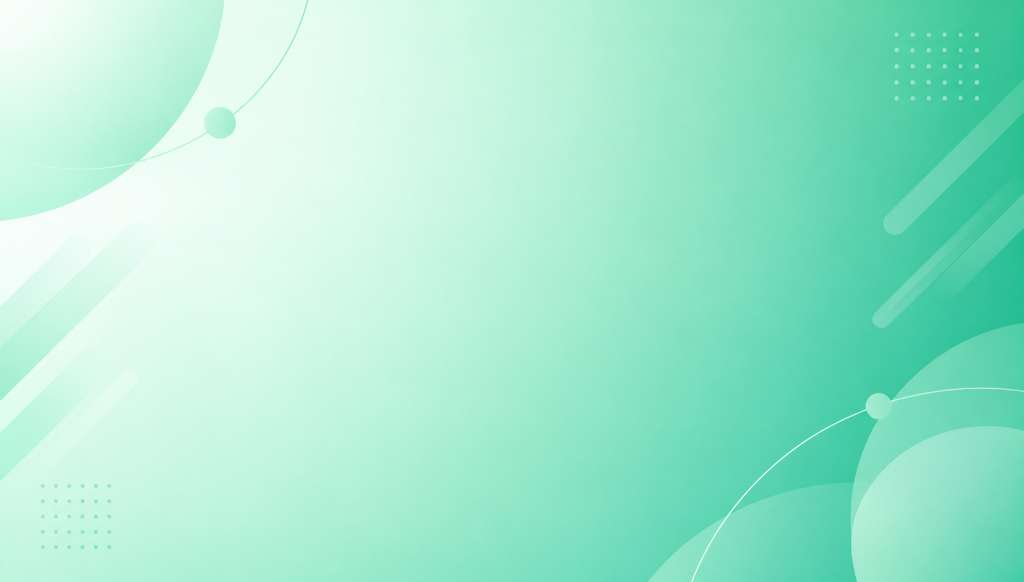
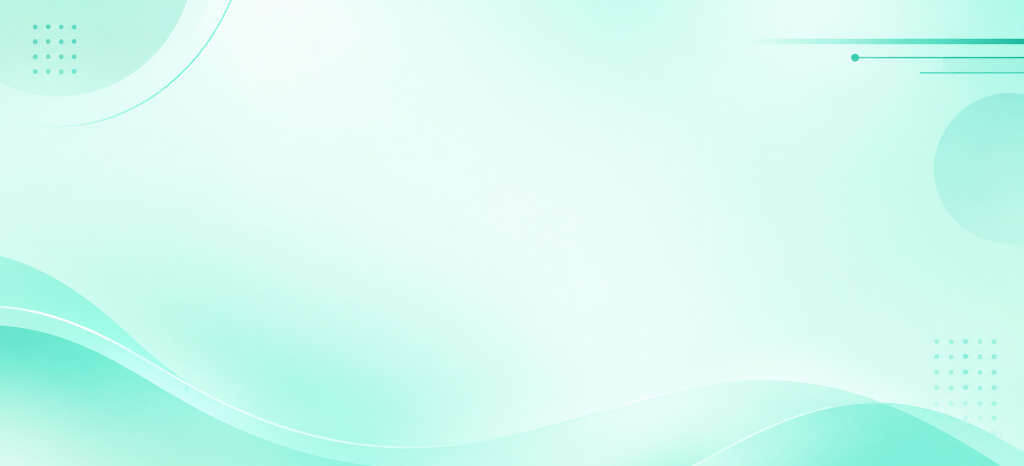
feat(frontend): update hero headline, new web background, and slider styling

diff --git a/Frontend/index.html b/Frontend/index.html
@@ -7,7 +7,7 @@
   <link rel="preconnect" href="https://fonts.googleapis.com">
   <link rel="preconnect" href="https://fonts.gstatic.com" crossorigin>
   <link href="https://fonts.googleapis.com/css2?family=Inter:wght@400;500;600;700;800&display=swap" rel="stylesheet">
-  <link rel="stylesheet" href="styles.css">
+  <link rel="stylesheet" href="styles.css?v=3">
 </head>
 <body>
 
@@ -61,7 +61,7 @@
             <span class="green-text">with Indian Standards</span>
           </h1>
           <p class="hero-subheading">
-            AI-assisted identification of applicable Indian Standards for your procurement specifications.
+            Find the exact Indian Standards for your purchase orders in seconds.
           </p>
 
           <div class="trust-badges-row">
@@ -157,7 +157,7 @@
           </button>
         </div>
 
-        <h2 class="card-title">What are you procuring?</h2>
+        <h2 class="card-title">What are you looking to buy?</h2>
         <p class="card-description">
           Describe your product, technical requirement, or procurement specification...
         </p>

diff --git a/Frontend/styles.css b/Frontend/styles.css
@@ -53,7 +53,7 @@
 body {
   font-family: 'Inter', -apple-system, BlinkMacSystemFont, "Segoe UI", Roboto, Helvetica, Arial, sans-serif;
   background-color: var(--main-bg);
-  background-image: url('assets/web_bg.png');
+  background-image: url('assets/web_bg.png?v=3');
   background-size: cover;
   background-position: center;
   background-repeat: no-repeat;
